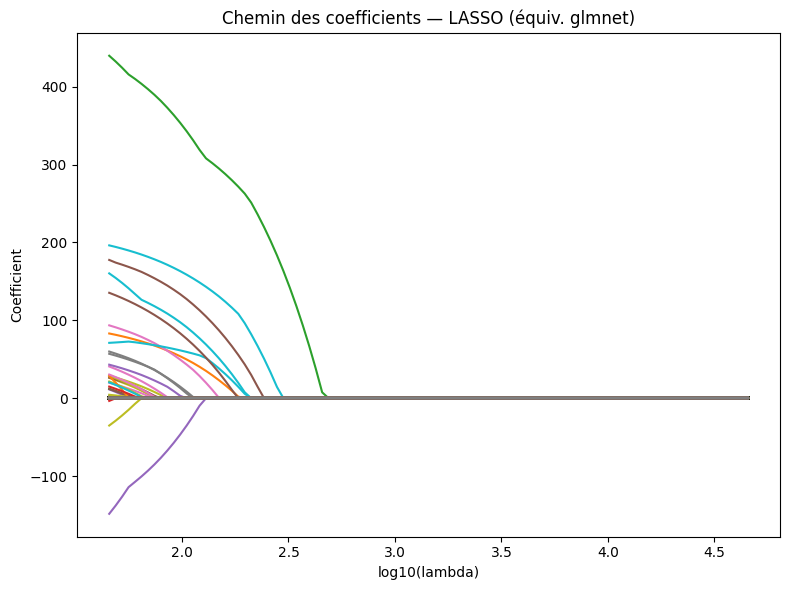
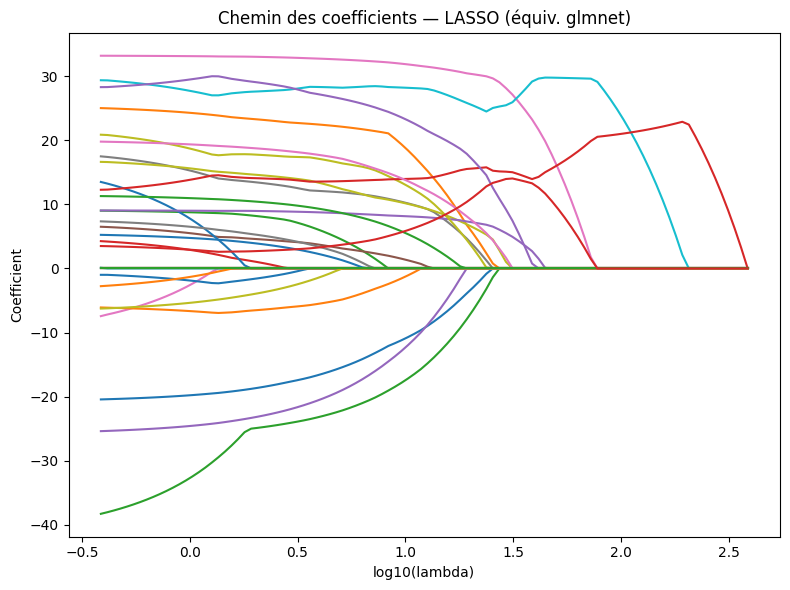
feat(model_prediction): ajout du modèle LASSO avec pipeline de prétraitement et visualisations

diff --git a/src/functions/model_prediction.py b/src/functions/model_prediction.py
@@ -1,126 +1,127 @@
 #Choix des vars pertinentes 
 #Var Cible : y = Cost_claims_year (C’est le coût total des sinistres supporté par l’assureur pour ce client sur l’année.)
 
-# Lasso (équivalent glmnet) pour prédire Cost_claims_year
+"""
+LASSO Model Script
+Ce script reproduit un modèle LASSO (équivalent glmnet en R) pour prédire 'cost_claims_year'.
+Il suit la même structure que le script BIC :
+    - Chargement via engineering()
+    - Prétraitement via preprocess_data_for_modeling()
+    - Lasso + CV pour lambda.min
+"""
 
 import numpy as np
 import pandas as pd
 import matplotlib.pyplot as plt
+import sys
 from pathlib import Path
 
-from sklearn.compose import ColumnTransformer
-from sklearn.preprocessing import OneHotEncoder, StandardScaler
-from sklearn.impute import SimpleImputer
-from sklearn.pipeline import Pipeline
+from sklearn.preprocessing import StandardScaler
 from sklearn.linear_model import LassoCV, lasso_path
-from sklearn.metrics import mean_squared_error
-from scipy import sparse
 
-# ========= CONFIG =========
-# 
-CSV_PATH = Path(r"C:\Users\hp\Desktop\Cours M2 SEP\management-2\management-des-projets-digitaux-2\data\raw\new_motor_vehicle_insurance_data.csv")
+# ====== Configuration du projet ======
+ROOT_DIR = str(Path(__file__).resolve().parents[2])
+if ROOT_DIR not in sys.path:
+    sys.path.append(ROOT_DIR)
+
+try:
+    from src.functions.engineering import engineering
+    from src.models.preprocessing import preprocess_data_for_modeling
+except ImportError as e:
+    print(f"❌ Import error : {e}")
+    sys.exit(1)
+
 TARGET = "cost_claims_year"
 CV_FOLDS = 10
 RANDOM_STATE = 42
 
-# ========= LOAD =========
-df = pd.read_csv(CSV_PATH)
-df.columns = [c.strip() for c in df.columns]
-assert TARGET in df.columns, f"Cible '{TARGET}' introuvable. Colonnes: {df.columns.tolist()}"
-df = df.loc[~df[TARGET].isna()].copy()
 
-X_df = df.drop(columns=[TARGET], errors="ignore")
-y    = df[TARGET].values
+def run_lasso(X, y):
+    """Exécute un LASSO avec validation croisée et affiche les résultats."""
 
-# ========= MATRICE DE DESIGN (XX) =========
-# - Numériques -> imputés médiane
-# - Catégorielles -> OneHotEncoder en SPARSE (évite 10+ Go de RAM)
-num_cols = X_df.select_dtypes(include=[np.number]).columns.tolist()
-cat_cols = [c for c in X_df.columns if c not in num_cols]
+    # ========= CHEMIN DES COEFFICIENTS =========
+    print("\n--- Calcul du chemin des coefficients (lasso_path) ---")
+    alphas, coefs, _ = lasso_path(X, y, alphas=None, max_iter=5000, verbose=False)
 
-num_tf = Pipeline([
-    ("imputer", SimpleImputer(strategy="median"))
-    # pas de StandardScaler ici: on standardise TOUT d'un coup juste après pour mimer scale(XX)
-])
+    plt.figure(figsize=(8, 6))
+    for i in range(coefs.shape[0]):
+        plt.plot(np.log10(alphas), coefs[i, :])
+    plt.xlabel("log10(lambda)")
+    plt.ylabel("Coefficient")
+    plt.title("Chemin des coefficients — LASSO (équiv. glmnet)")
+    plt.tight_layout()
+    plt.savefig("lasso_coef_path.png", bbox_inches="tight")
+    plt.close()
 
-cat_tf = Pipeline([
-    ("imputer", SimpleImputer(strategy="most_frequent")),
-    ("ohe", OneHotEncoder(handle_unknown="ignore", sparse_output=True))  # <--- sparse !
-])
+    # ========= LassoCV : sélection de lambda.min =========
+    print("\n--- Validation croisée (LassoCV) ---")
+    lasso_cv = LassoCV(cv=CV_FOLDS, random_state=RANDOM_STATE, n_alphas=100, max_iter=5000, n_jobs=-1)
+    lasso_cv.fit(X, y)
 
-prep = ColumnTransformer([
-    ("num", num_tf, num_cols),
-    ("cat", cat_tf, cat_cols)
-], remainder="drop", sparse_threshold=1.0)  # force le sparse si possible
+    lambda_min = lasso_cv.alpha_
+    mse_path_mean = lasso_cv.mse_path_.mean(axis=1)
+    best_idx = list(lasso_cv.alphas_).index(lambda_min)
+    best_mse = float(mse_path_mean[best_idx])
+    best_rmse = float(np.sqrt(best_mse))
 
-# On obtient XX en sparse
-XX = prep.fit_transform(X_df)                   # scipy.sparse matrix
-# ========= SCALE(XX) (centrage-réduction) =========
-# Pour une matrice creuse, on ne centre pas (with_mean=False), mais on **met à l’échelle** (écart-type)
-scaler = StandardScaler(with_mean=False)        # important: garder le sparse
-XX_scaled = scaler.fit_transform(XX)            # toujours sparse
+    plt.figure(figsize=(8, 6))
+    plt.plot(np.log10(lasso_cv.alphas_), mse_path_mean, marker="o", ms=3)
+    plt.axvline(np.log10(lambda_min), linestyle="--", label=f"lambda.min={lambda_min:.4g}")
+    plt.xlabel("log10(lambda)")
+    plt.ylabel("MSE (CV)")
+    plt.title("Validation croisée — LASSO")
+    plt.legend()
+    plt.tight_layout()
+    plt.savefig("lasso_cv_curve.png", bbox_inches="tight")
+    plt.close()
 
-# (Option) convertir en CSC (plus rapide pour lasso_path)
-XX_scaled = XX_scaled.tocsc()
+    print("\n=== Résumé LASSO ===")
+    print(f"λ.min (alpha*)   : {lambda_min:.6g}")
+    print(f"CV MSE (min)     : {best_mse:.6g}")
+    print(f"CV RMSE (min)    : {best_rmse:.6g}")
+    print(f"Nb de features non nulles : {(lasso_cv.coef_ != 0).sum()} / {len(lasso_cv.coef_)}")
 
-# ========= CHEMIN DES COEFFICIENTS (comme plot(glmnet)) =========
-# lasso_path calcule les coefs pour une grille d'alphas (lambdas)
-# NOTE: lasso_path accepte le sparse CSC
-alphas, coefs, _ = lasso_path(XX_scaled, y, alphas=None, max_iter=5000, verbose=False)
+    return lasso_cv
 
-plt.figure(figsize=(8,6))
-for i in range(coefs.shape[0]):
-    plt.plot(np.log10(alphas), coefs[i, :])
-plt.xlabel("log10(lambda)")
-plt.ylabel("Coefficient")
-plt.title("Chemin des coefficients — LASSO (équiv. glmnet)")
-plt.tight_layout()
-plt.savefig("lasso_coef_path.png", bbox_inches="tight")
-plt.close()
 
-# ========= CV LASSO pour lambda.min (équiv. cv.glmnet) =========
-# LassoCV accepte aussi le sparse; on lui donne la même matrice standardisée
-lasso_cv = LassoCV(cv=CV_FOLDS, random_state=RANDOM_STATE, alphas=100, max_iter=5000, n_jobs=-1)
-lasso_cv.fit(XX_scaled, y)
+def main():
+    """Pipeline complet : engineering → preprocessing → LASSO"""
 
-lambda_min = lasso_cv.alpha_
-mse_path_mean = lasso_cv.mse_path_.mean(axis=1)   # moyenne des MSE sur les folds
-best_idx = list(lasso_cv.alphas_).index(lambda_min)
-best_mse = float(mse_path_mean[best_idx])
-best_rmse = float(np.sqrt(best_mse))
+    print("--- Démarrage du processus LASSO ---")
 
-# Courbe de CV (comme plot(cv.glmnet))
-plt.figure(figsize=(8,6))
-plt.plot(np.log10(lasso_cv.alphas_), mse_path_mean, marker="o", ms=3)
-plt.axvline(np.log10(lambda_min), linestyle="--", label=f"lambda.min={lambda_min:.4g}")
-plt.xlabel("log10(lambda)")
-plt.ylabel("MSE (CV)")
-plt.title("Validation croisée — LASSO")
-plt.legend()
-plt.tight_layout()
-plt.savefig("lasso_cv_curve.png", bbox_inches="tight")
-plt.close()
+    # Étape 1 : chargement
+    print("1⃣  Chargement des données via engineering() ...")
+    base_df = engineering()
+    if base_df is None or base_df.empty:
+        print("❌ Aucune donnée chargée. Arrêt.")
+        return
 
-# ========= COEFS AU LAMBDA.MIN (équiv. coef(reg.cvlasso)) =========
-# Récupérer les noms de colonnes finales de XX (num + dummies)
-feature_names = []
-feature_names.extend(num_cols)
-if cat_cols:
-    ohe = prep.named_transformers_["cat"].named_steps["ohe"]
-    ohe_names = ohe.get_feature_names_out(cat_cols).tolist()
-    feature_names.extend(ohe_names)
+    # Étape 2 : prétraitement
+    print("2⃣  Prétraitement avec preprocess_data_for_modeling() ...")
+    X_processed, y_target = preprocess_data_for_modeling(base_df, target_column=TARGET)
+    if X_processed is None or X_processed.empty or y_target.empty:
+        print("❌ Données prétraitées invalides.")
+        return
 
-coef_series = pd.Series(lasso_cv.coef_, index=feature_names)
-non_zero = coef_series[coef_series != 0].sort_values(key=np.abs, ascending=False)
+    # Étape 3 : standardisation
+    print("3⃣  Standardisation des features ...")
+    scaler = StandardScaler(with_mean=False)
+    X_scaled = scaler.fit_transform(X_processed)
 
-# ========= SORTIES =========
-print("\n=== LASSO (équivalent glmnet) — Résumé ===")
-print(f"lambda.min (alpha*) : {lambda_min:.6g}")
-print(f"CV MSE (min)        : {best_mse:.6g}")
-print(f"CV RMSE (min)       : {best_rmse:.6g}")
-print(f"Nb de features non nulles : {(coef_series!=0).sum()} / {len(feature_names)}")
+    # Étape 4 : modèle LASSO
+    print("4⃣  Entraînement du modèle LASSO ...")
+    model = run_lasso(X_scaled, y_target)
 
-print("\nTop 30 coefficients non nuls (|coef| décroissant) :")
-print(non_zero.head(30))
+    # Étape 5 : sortie des coefficients
+    print("\n5⃣  Coefficients non nuls :")
+    coef_series = pd.Series(model.coef_, index=X_processed.columns)
+    non_zero = coef_series[coef_series != 0].sort_values(key=np.abs, ascending=False)
+    print(non_zero.head(30))
 
-print("\nFichiers générés : lasso_coef_path.png  |  lasso_cv_curve.png")
+    print("\n✅ Figures enregistrées :")
+    print(" - lasso_coef_path.png")
+    print(" - lasso_cv_curve.png")
+
+
+if __name__ == "__main__":
+    main()
